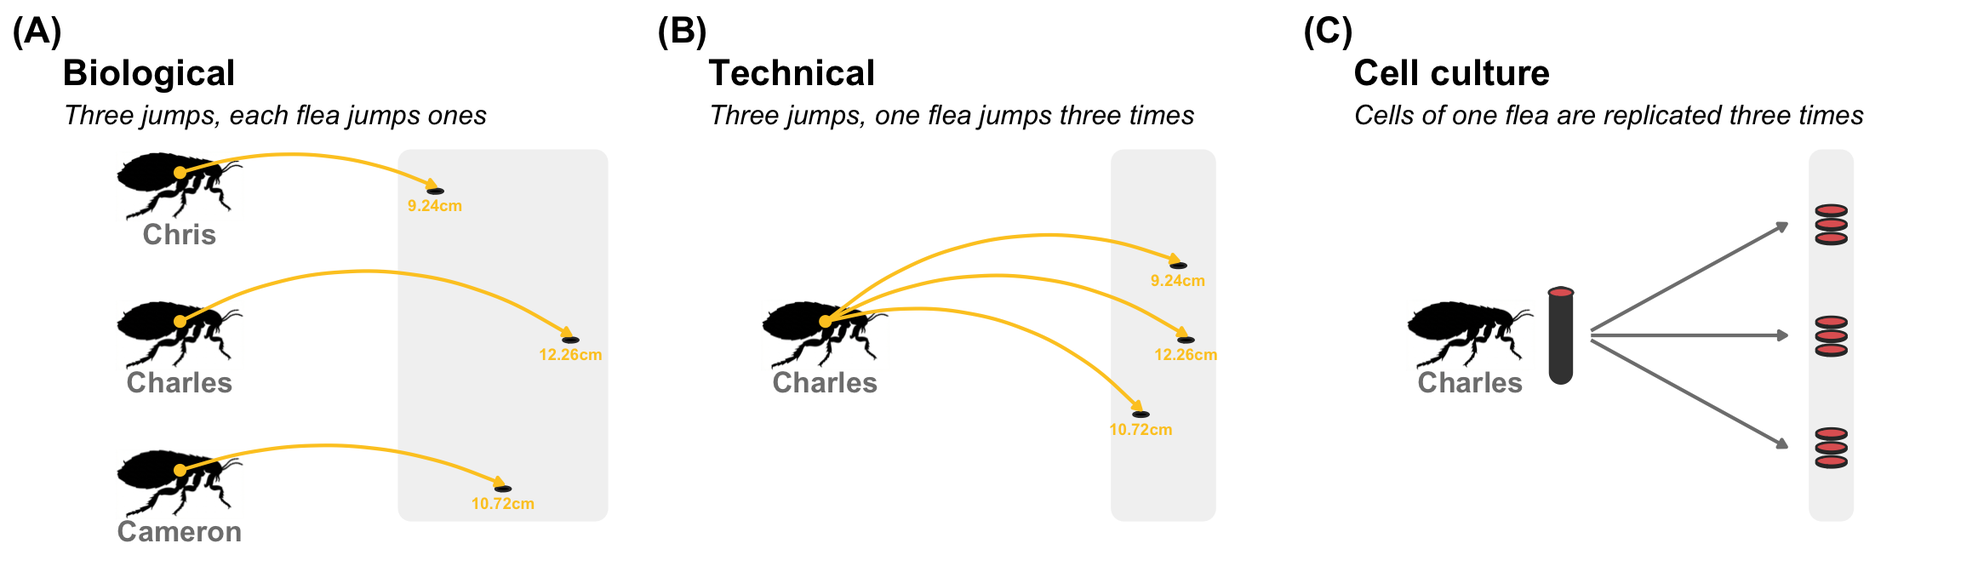
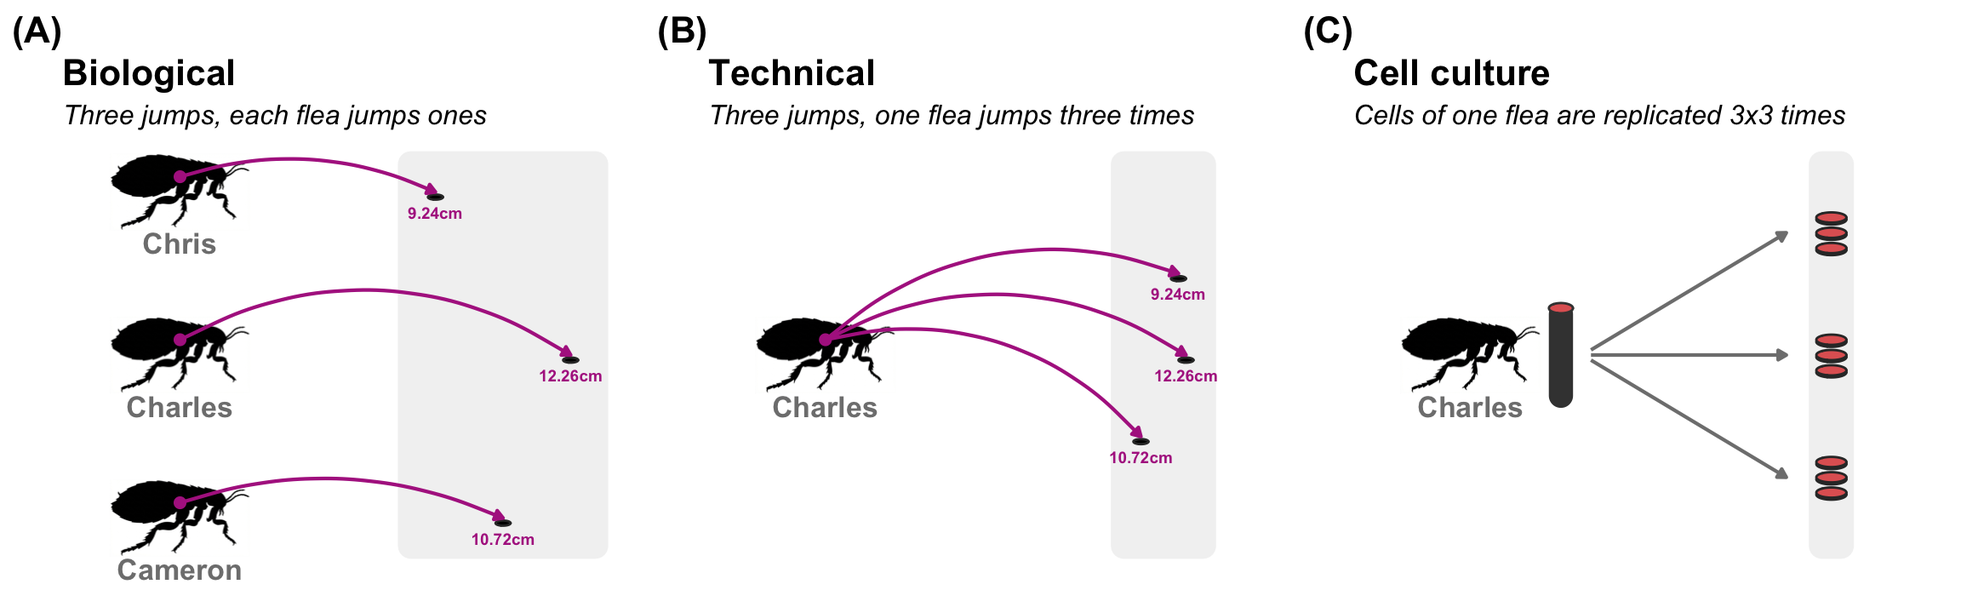
added

diff --git a/docs/chapter-11-covariate-data.html b/docs/chapter-11-covariate-data.html
@@ -432,7 +432,7 @@ window.Quarto = {
 </header>
 
 
-<p><em>Last modified on 01. January 2026 at 20:48:09</em></p>
+<p><em>Last modified on 01. January 2026 at 20:52:35</em></p>
 <blockquote class="blockquote">
 <p><em>“A quote.” — Dan Meyer</em></p>
 </blockquote>
@@ -1256,7 +1256,7 @@ Figure&nbsp;4.6: foo <strong>(A)</strong> foo <strong>(B)</strong> foo
 <span id="cb9-134"><a href="#cb9-134" aria-hidden="true" tabindex="-1"></a><span class="co">#| warning: false</span></span>
 <span id="cb9-135"><a href="#cb9-135" aria-hidden="true" tabindex="-1"></a><span class="co">#| label: fig-chap-11-cov-01-flea-bio-tech</span></span>
 <span id="cb9-136"><a href="#cb9-136" aria-hidden="true" tabindex="-1"></a><span class="co">#| fig-align: center</span></span>
-<span id="cb9-137"><a href="#cb9-137" aria-hidden="true" tabindex="-1"></a><span class="co">#| fig-height: 3.5</span></span>
+<span id="cb9-137"><a href="#cb9-137" aria-hidden="true" tabindex="-1"></a><span class="co">#| fig-height: 3.75</span></span>
 <span id="cb9-138"><a href="#cb9-138" aria-hidden="true" tabindex="-1"></a><span class="co">#| fig-width: 12</span></span>
 <span id="cb9-139"><a href="#cb9-139" aria-hidden="true" tabindex="-1"></a><span class="co">#| fig-cap: "foo **(A)** foo **(B)** foo **(C)** foo"</span></span>
 <span id="cb9-140"><a href="#cb9-140" aria-hidden="true" tabindex="-1"></a></span>
@@ -1269,7 +1269,7 @@ Figure&nbsp;4.6: foo <strong>(A)</strong> foo <strong>(B)</strong> foo
 <span id="cb9-147"><a href="#cb9-147" aria-hidden="true" tabindex="-1"></a>  <span class="fu">annotate</span>(<span class="st">"text"</span>, <span class="at">x =</span> <span class="fu">c</span>(<span class="sc">-</span><span class="dv">7</span>, <span class="sc">-</span><span class="dv">7</span>, <span class="sc">-</span><span class="dv">7</span>),</span>
 <span id="cb9-148"><a href="#cb9-148" aria-hidden="true" tabindex="-1"></a>           <span class="at">y =</span> <span class="fu">c</span>(<span class="dv">8</span>, <span class="dv">0</span>, <span class="sc">-</span><span class="dv">8</span>)<span class="sc">-</span><span class="fl">2.5</span>, <span class="at">fontface =</span> <span class="dv">2</span>, <span class="at">size =</span> <span class="fl">4.5</span>, <span class="at">color =</span> <span class="st">"gray50"</span>,</span>
 <span id="cb9-149"><a href="#cb9-149" aria-hidden="true" tabindex="-1"></a>           <span class="at">label =</span> <span class="fu">c</span>(<span class="st">"Chris"</span>, <span class="st">"Charles"</span>, <span class="st">"Cameron"</span>)) <span class="sc">+</span></span>
-<span id="cb9-150"><a href="#cb9-150" aria-hidden="true" tabindex="-1"></a>  <span class="fu">annotate</span>(<span class="st">"point"</span>, <span class="fu">c</span>(<span class="sc">-</span><span class="dv">7</span>, <span class="sc">-</span><span class="dv">7</span>, <span class="sc">-</span><span class="dv">7</span>), <span class="at">y =</span> <span class="fu">c</span>(<span class="dv">8</span>, <span class="dv">0</span>, <span class="sc">-</span><span class="dv">8</span>)<span class="sc">+</span><span class="fl">0.75</span>, <span class="at">color =</span> <span class="st">"#FDC926FF"</span>, <span class="at">size =</span> <span class="dv">2</span>) <span class="sc">+</span></span>
+<span id="cb9-150"><a href="#cb9-150" aria-hidden="true" tabindex="-1"></a>  <span class="fu">annotate</span>(<span class="st">"point"</span>, <span class="fu">c</span>(<span class="sc">-</span><span class="dv">7</span>, <span class="sc">-</span><span class="dv">7</span>, <span class="sc">-</span><span class="dv">7</span>), <span class="at">y =</span> <span class="fu">c</span>(<span class="dv">8</span>, <span class="dv">0</span>, <span class="sc">-</span><span class="dv">8</span>)<span class="sc">+</span><span class="fl">0.75</span>, <span class="at">color =</span> <span class="st">"#B12A90FF"</span>, <span class="at">size =</span> <span class="dv">2</span>) <span class="sc">+</span></span>
 <span id="cb9-151"><a href="#cb9-151" aria-hidden="true" tabindex="-1"></a>  <span class="fu">geom_shape</span>(<span class="at">data =</span> <span class="fu">tibble</span>(<span class="at">x =</span> <span class="fu">c</span>(<span class="fl">0.25</span>, <span class="fl">7.25</span>, <span class="fl">7.25</span>, <span class="fl">0.25</span>), </span>
 <span id="cb9-152"><a href="#cb9-152" aria-hidden="true" tabindex="-1"></a>                           <span class="at">y =</span> <span class="fu">c</span>(<span class="sc">-</span><span class="dv">10</span>, <span class="sc">-</span><span class="dv">10</span>, <span class="dv">10</span>, <span class="dv">10</span>)),</span>
 <span id="cb9-153"><a href="#cb9-153" aria-hidden="true" tabindex="-1"></a>             <span class="fu">aes</span>(x, y), <span class="at">radius =</span> <span class="fu">unit</span>(<span class="fl">0.2</span>, <span class="st">'cm'</span>), <span class="at">fill =</span> <span class="st">"gray95"</span>) <span class="sc">+</span></span>
@@ -1277,19 +1277,19 @@ Figure&nbsp;4.6: foo <strong>(A)</strong> foo <strong>(B)</strong> foo
 <span id="cb9-155"><a href="#cb9-155" aria-hidden="true" tabindex="-1"></a>               <span class="at">color =</span> <span class="st">"gray20"</span>, <span class="at">fill =</span> <span class="st">"black"</span>) <span class="sc">+</span></span>
 <span id="cb9-156"><a href="#cb9-156" aria-hidden="true" tabindex="-1"></a>  <span class="fu">geom_curve</span>(<span class="fu">aes</span>(<span class="at">x =</span> <span class="sc">-</span><span class="dv">7</span>, <span class="at">y =</span> <span class="fl">8.75</span>, <span class="at">xend =</span> <span class="fl">1.5</span>, <span class="at">yend =</span> <span class="dv">8</span>),</span>
 <span id="cb9-157"><a href="#cb9-157" aria-hidden="true" tabindex="-1"></a>             <span class="at">arrow =</span> <span class="fu">arrow</span>(<span class="at">length =</span> <span class="fu">unit</span>(<span class="fl">0.02</span>, <span class="st">"npc"</span>), <span class="at">type =</span> <span class="st">"closed"</span>),</span>
-<span id="cb9-158"><a href="#cb9-158" aria-hidden="true" tabindex="-1"></a>             <span class="at">curvature =</span> <span class="sc">-</span><span class="fl">0.2</span>, <span class="at">color =</span> <span class="st">"#FDC926FF"</span>, <span class="at">linewidth =</span> <span class="fl">0.75</span>, <span class="at">linetype =</span> <span class="dv">1</span>) <span class="sc">+</span></span>
+<span id="cb9-158"><a href="#cb9-158" aria-hidden="true" tabindex="-1"></a>             <span class="at">curvature =</span> <span class="sc">-</span><span class="fl">0.2</span>, <span class="at">color =</span> <span class="st">"#B12A90FF"</span>, <span class="at">linewidth =</span> <span class="fl">0.75</span>, <span class="at">linetype =</span> <span class="dv">1</span>) <span class="sc">+</span></span>
 <span id="cb9-159"><a href="#cb9-159" aria-hidden="true" tabindex="-1"></a>  <span class="fu">geom_ellipse</span>(<span class="fu">aes</span>(<span class="at">x0 =</span> <span class="dv">6</span>, <span class="at">y0 =</span> <span class="sc">-</span><span class="fl">0.25</span>, <span class="at">a =</span> <span class="fl">0.25</span>, <span class="at">b =</span> <span class="fl">0.125</span>, <span class="at">angle =</span> <span class="dv">0</span>), </span>
 <span id="cb9-160"><a href="#cb9-160" aria-hidden="true" tabindex="-1"></a>               <span class="at">color =</span> <span class="st">"gray20"</span>, <span class="at">fill =</span> <span class="st">"black"</span>) <span class="sc">+</span></span>
 <span id="cb9-161"><a href="#cb9-161" aria-hidden="true" tabindex="-1"></a>  <span class="fu">geom_curve</span>(<span class="fu">aes</span>(<span class="at">x =</span> <span class="sc">-</span><span class="dv">7</span>, <span class="at">y =</span> <span class="fl">0.75</span>, <span class="at">xend =</span> <span class="dv">6</span>, <span class="at">yend =</span> <span class="dv">0</span>),</span>
 <span id="cb9-162"><a href="#cb9-162" aria-hidden="true" tabindex="-1"></a>             <span class="at">arrow =</span> <span class="fu">arrow</span>(<span class="at">length =</span> <span class="fu">unit</span>(<span class="fl">0.02</span>, <span class="st">"npc"</span>), <span class="at">type =</span> <span class="st">"closed"</span>),</span>
-<span id="cb9-163"><a href="#cb9-163" aria-hidden="true" tabindex="-1"></a>             <span class="at">curvature =</span> <span class="sc">-</span><span class="fl">0.3</span>, <span class="at">color =</span> <span class="st">"#FDC926FF"</span>, <span class="at">linewidth =</span> <span class="fl">0.75</span>, <span class="at">linetype =</span> <span class="dv">1</span>) <span class="sc">+</span></span>
+<span id="cb9-163"><a href="#cb9-163" aria-hidden="true" tabindex="-1"></a>             <span class="at">curvature =</span> <span class="sc">-</span><span class="fl">0.3</span>, <span class="at">color =</span> <span class="st">"#B12A90FF"</span>, <span class="at">linewidth =</span> <span class="fl">0.75</span>, <span class="at">linetype =</span> <span class="dv">1</span>) <span class="sc">+</span></span>
 <span id="cb9-164"><a href="#cb9-164" aria-hidden="true" tabindex="-1"></a>  <span class="fu">geom_ellipse</span>(<span class="fu">aes</span>(<span class="at">x0 =</span> <span class="fl">3.75</span>, <span class="at">y0 =</span> <span class="sc">-</span><span class="fl">8.25</span>, <span class="at">a =</span> <span class="fl">0.25</span>, <span class="at">b =</span> <span class="fl">0.125</span>, <span class="at">angle =</span> <span class="dv">0</span>), </span>
 <span id="cb9-165"><a href="#cb9-165" aria-hidden="true" tabindex="-1"></a>               <span class="at">color =</span> <span class="st">"gray20"</span>, <span class="at">fill =</span> <span class="st">"black"</span>) <span class="sc">+</span></span>
 <span id="cb9-166"><a href="#cb9-166" aria-hidden="true" tabindex="-1"></a>  <span class="fu">geom_curve</span>(<span class="fu">aes</span>(<span class="at">x =</span> <span class="sc">-</span><span class="dv">7</span>, <span class="at">y =</span> <span class="sc">-</span><span class="fl">7.25</span>, <span class="at">xend =</span> <span class="fl">3.75</span>, <span class="at">yend =</span> <span class="sc">-</span><span class="dv">8</span>),</span>
 <span id="cb9-167"><a href="#cb9-167" aria-hidden="true" tabindex="-1"></a>             <span class="at">arrow =</span> <span class="fu">arrow</span>(<span class="at">length =</span> <span class="fu">unit</span>(<span class="fl">0.02</span>, <span class="st">"npc"</span>), <span class="at">type =</span> <span class="st">"closed"</span>),</span>
-<span id="cb9-168"><a href="#cb9-168" aria-hidden="true" tabindex="-1"></a>             <span class="at">curvature =</span> <span class="sc">-</span><span class="fl">0.2</span>, <span class="at">color =</span> <span class="st">"#FDC926FF"</span>, <span class="at">linewidth =</span> <span class="fl">0.75</span>, <span class="at">linetype =</span> <span class="dv">1</span>) <span class="sc">+</span>  </span>
+<span id="cb9-168"><a href="#cb9-168" aria-hidden="true" tabindex="-1"></a>             <span class="at">curvature =</span> <span class="sc">-</span><span class="fl">0.2</span>, <span class="at">color =</span> <span class="st">"#B12A90FF"</span>, <span class="at">linewidth =</span> <span class="fl">0.75</span>, <span class="at">linetype =</span> <span class="dv">1</span>) <span class="sc">+</span>  </span>
 <span id="cb9-169"><a href="#cb9-169" aria-hidden="true" tabindex="-1"></a>  <span class="fu">annotate</span>(<span class="st">"text"</span>, <span class="at">x =</span> <span class="fu">c</span>(<span class="fl">1.5</span>, <span class="dv">6</span>, <span class="fl">3.75</span>), <span class="at">y =</span> <span class="fu">c</span>(<span class="dv">8</span>, <span class="dv">0</span>, <span class="sc">-</span><span class="dv">8</span>)<span class="sc">-</span><span class="dv">1</span>, <span class="at">label =</span> <span class="fu">c</span>(<span class="st">"9.24cm"</span>, <span class="st">"12.26cm"</span>, <span class="st">"10.72cm"</span>),</span>
-<span id="cb9-170"><a href="#cb9-170" aria-hidden="true" tabindex="-1"></a>           <span class="at">color =</span> <span class="st">"#FDC926FF"</span>, <span class="at">size =</span> <span class="fl">2.5</span>, <span class="at">fontface =</span> <span class="dv">2</span>) <span class="sc">+</span></span>
+<span id="cb9-170"><a href="#cb9-170" aria-hidden="true" tabindex="-1"></a>           <span class="at">color =</span> <span class="st">"#B12A90FF"</span>, <span class="at">size =</span> <span class="fl">2.5</span>, <span class="at">fontface =</span> <span class="dv">2</span>) <span class="sc">+</span></span>
 <span id="cb9-171"><a href="#cb9-171" aria-hidden="true" tabindex="-1"></a>  <span class="fu">labs</span>(<span class="at">title =</span> <span class="st">"Biological"</span>,</span>
 <span id="cb9-172"><a href="#cb9-172" aria-hidden="true" tabindex="-1"></a>       <span class="at">subtitle =</span> <span class="st">"Three jumps, each flea jumps ones"</span>) <span class="sc">+</span></span>
 <span id="cb9-173"><a href="#cb9-173" aria-hidden="true" tabindex="-1"></a>  <span class="fu">theme</span>(<span class="at">plot.title =</span> <span class="fu">element_text</span>(<span class="at">size =</span> <span class="dv">16</span>, <span class="at">face =</span> <span class="st">"bold"</span>),</span>
@@ -1303,7 +1303,7 @@ Figure&nbsp;4.6: foo <strong>(A)</strong> foo <strong>(B)</strong> foo
 <span id="cb9-181"><a href="#cb9-181" aria-hidden="true" tabindex="-1"></a>                 <span class="at">image =</span> <span class="fu">rep</span>(<span class="st">"images/flea_00_flip.png"</span>, <span class="dv">3</span>)), <span class="at">size =</span> <span class="fl">0.3</span>) <span class="sc">+</span></span>
 <span id="cb9-182"><a href="#cb9-182" aria-hidden="true" tabindex="-1"></a>  <span class="fu">annotate</span>(<span class="st">"text"</span>, <span class="at">x =</span> <span class="sc">-</span><span class="dv">7</span>, <span class="at">y =</span> <span class="sc">-</span><span class="fl">2.5</span>, <span class="at">fontface =</span> <span class="dv">2</span>, <span class="at">size =</span> <span class="fl">4.5</span>, <span class="at">color =</span> <span class="st">"gray50"</span>,</span>
 <span id="cb9-183"><a href="#cb9-183" aria-hidden="true" tabindex="-1"></a>           <span class="at">label =</span> <span class="st">"Charles"</span>) <span class="sc">+</span></span>
-<span id="cb9-184"><a href="#cb9-184" aria-hidden="true" tabindex="-1"></a>  <span class="fu">annotate</span>(<span class="st">"point"</span>, <span class="sc">-</span><span class="dv">7</span>, <span class="at">y =</span> <span class="fl">0.75</span>, <span class="at">color =</span> <span class="st">"#FDC926FF"</span>, <span class="at">size =</span> <span class="dv">2</span>) <span class="sc">+</span></span>
+<span id="cb9-184"><a href="#cb9-184" aria-hidden="true" tabindex="-1"></a>  <span class="fu">annotate</span>(<span class="st">"point"</span>, <span class="sc">-</span><span class="dv">7</span>, <span class="at">y =</span> <span class="fl">0.75</span>, <span class="at">color =</span> <span class="st">"#B12A90FF"</span>, <span class="at">size =</span> <span class="dv">2</span>) <span class="sc">+</span></span>
 <span id="cb9-185"><a href="#cb9-185" aria-hidden="true" tabindex="-1"></a>  <span class="fu">geom_shape</span>(<span class="at">data =</span> <span class="fu">tibble</span>(<span class="at">x =</span> <span class="fu">c</span>(<span class="fl">2.5</span>, <span class="dv">6</span>, <span class="dv">6</span>, <span class="fl">2.5</span>), </span>
 <span id="cb9-186"><a href="#cb9-186" aria-hidden="true" tabindex="-1"></a>                           <span class="at">y =</span> <span class="fu">c</span>(<span class="sc">-</span><span class="dv">10</span>, <span class="sc">-</span><span class="dv">10</span>, <span class="dv">10</span>, <span class="dv">10</span>)),</span>
 <span id="cb9-187"><a href="#cb9-187" aria-hidden="true" tabindex="-1"></a>             <span class="fu">aes</span>(x, y), <span class="at">radius =</span> <span class="fu">unit</span>(<span class="fl">0.2</span>, <span class="st">'cm'</span>), <span class="at">fill =</span> <span class="st">"gray95"</span>) <span class="sc">+</span></span>
@@ -1311,19 +1311,19 @@ Figure&nbsp;4.6: foo <strong>(A)</strong> foo <strong>(B)</strong> foo
 <span id="cb9-189"><a href="#cb9-189" aria-hidden="true" tabindex="-1"></a>               <span class="at">color =</span> <span class="st">"gray20"</span>, <span class="at">fill =</span> <span class="st">"black"</span>) <span class="sc">+</span></span>
 <span id="cb9-190"><a href="#cb9-190" aria-hidden="true" tabindex="-1"></a>  <span class="fu">geom_curve</span>(<span class="fu">aes</span>(<span class="at">x =</span> <span class="sc">-</span><span class="dv">7</span>, <span class="at">y =</span> <span class="fl">0.75</span>, <span class="at">xend =</span> <span class="fl">4.75</span>, <span class="at">yend =</span> <span class="dv">4</span>),</span>
 <span id="cb9-191"><a href="#cb9-191" aria-hidden="true" tabindex="-1"></a>             <span class="at">arrow =</span> <span class="fu">arrow</span>(<span class="at">length =</span> <span class="fu">unit</span>(<span class="fl">0.02</span>, <span class="st">"npc"</span>), <span class="at">type =</span> <span class="st">"closed"</span>),</span>
-<span id="cb9-192"><a href="#cb9-192" aria-hidden="true" tabindex="-1"></a>             <span class="at">curvature =</span> <span class="sc">-</span><span class="fl">0.3</span>, <span class="at">color =</span> <span class="st">"#FDC926FF"</span>, <span class="at">linewidth =</span> <span class="fl">0.75</span>, <span class="at">linetype =</span> <span class="dv">1</span>) <span class="sc">+</span></span>
+<span id="cb9-192"><a href="#cb9-192" aria-hidden="true" tabindex="-1"></a>             <span class="at">curvature =</span> <span class="sc">-</span><span class="fl">0.3</span>, <span class="at">color =</span> <span class="st">"#B12A90FF"</span>, <span class="at">linewidth =</span> <span class="fl">0.75</span>, <span class="at">linetype =</span> <span class="dv">1</span>) <span class="sc">+</span></span>
 <span id="cb9-193"><a href="#cb9-193" aria-hidden="true" tabindex="-1"></a>  <span class="fu">geom_ellipse</span>(<span class="fu">aes</span>(<span class="at">x0 =</span> <span class="dv">5</span>, <span class="at">y0 =</span> <span class="sc">-</span><span class="fl">0.25</span>, <span class="at">a =</span> <span class="fl">0.25</span>, <span class="at">b =</span> <span class="fl">0.125</span>, <span class="at">angle =</span> <span class="dv">0</span>), </span>
 <span id="cb9-194"><a href="#cb9-194" aria-hidden="true" tabindex="-1"></a>               <span class="at">color =</span> <span class="st">"gray20"</span>, <span class="at">fill =</span> <span class="st">"black"</span>) <span class="sc">+</span></span>
 <span id="cb9-195"><a href="#cb9-195" aria-hidden="true" tabindex="-1"></a>  <span class="fu">geom_curve</span>(<span class="fu">aes</span>(<span class="at">x =</span> <span class="sc">-</span><span class="dv">7</span>, <span class="at">y =</span> <span class="fl">0.75</span>, <span class="at">xend =</span> <span class="dv">5</span>, <span class="at">yend =</span> <span class="dv">0</span>),</span>
 <span id="cb9-196"><a href="#cb9-196" aria-hidden="true" tabindex="-1"></a>             <span class="at">arrow =</span> <span class="fu">arrow</span>(<span class="at">length =</span> <span class="fu">unit</span>(<span class="fl">0.02</span>, <span class="st">"npc"</span>), <span class="at">type =</span> <span class="st">"closed"</span>),</span>
-<span id="cb9-197"><a href="#cb9-197" aria-hidden="true" tabindex="-1"></a>             <span class="at">curvature =</span> <span class="sc">-</span><span class="fl">0.3</span>, <span class="at">color =</span> <span class="st">"#FDC926FF"</span>, <span class="at">linewidth =</span> <span class="fl">0.75</span>, <span class="at">linetype =</span> <span class="dv">1</span>) <span class="sc">+</span></span>
+<span id="cb9-197"><a href="#cb9-197" aria-hidden="true" tabindex="-1"></a>             <span class="at">curvature =</span> <span class="sc">-</span><span class="fl">0.3</span>, <span class="at">color =</span> <span class="st">"#B12A90FF"</span>, <span class="at">linewidth =</span> <span class="fl">0.75</span>, <span class="at">linetype =</span> <span class="dv">1</span>) <span class="sc">+</span></span>
 <span id="cb9-198"><a href="#cb9-198" aria-hidden="true" tabindex="-1"></a>  <span class="fu">geom_ellipse</span>(<span class="fu">aes</span>(<span class="at">x0 =</span> <span class="fl">3.5</span>, <span class="at">y0 =</span> <span class="sc">-</span><span class="fl">8.25</span><span class="sc">+</span><span class="dv">4</span>, <span class="at">a =</span> <span class="fl">0.25</span>, <span class="at">b =</span> <span class="fl">0.125</span>, <span class="at">angle =</span> <span class="dv">0</span>), </span>
 <span id="cb9-199"><a href="#cb9-199" aria-hidden="true" tabindex="-1"></a>               <span class="at">color =</span> <span class="st">"gray20"</span>, <span class="at">fill =</span> <span class="st">"black"</span>) <span class="sc">+</span></span>
 <span id="cb9-200"><a href="#cb9-200" aria-hidden="true" tabindex="-1"></a>  <span class="fu">geom_curve</span>(<span class="fu">aes</span>(<span class="at">x =</span> <span class="sc">-</span><span class="dv">7</span>, <span class="at">y =</span> <span class="fl">0.75</span>, <span class="at">xend =</span> <span class="fl">3.5</span>, <span class="at">yend =</span> <span class="sc">-</span><span class="dv">4</span>),</span>
 <span id="cb9-201"><a href="#cb9-201" aria-hidden="true" tabindex="-1"></a>             <span class="at">arrow =</span> <span class="fu">arrow</span>(<span class="at">length =</span> <span class="fu">unit</span>(<span class="fl">0.02</span>, <span class="st">"npc"</span>), <span class="at">type =</span> <span class="st">"closed"</span>),</span>
-<span id="cb9-202"><a href="#cb9-202" aria-hidden="true" tabindex="-1"></a>             <span class="at">curvature =</span> <span class="sc">-</span><span class="fl">0.3</span>, <span class="at">color =</span> <span class="st">"#FDC926FF"</span>, <span class="at">linewidth =</span> <span class="fl">0.75</span>, <span class="at">linetype =</span> <span class="dv">1</span>) <span class="sc">+</span> </span>
+<span id="cb9-202"><a href="#cb9-202" aria-hidden="true" tabindex="-1"></a>             <span class="at">curvature =</span> <span class="sc">-</span><span class="fl">0.3</span>, <span class="at">color =</span> <span class="st">"#B12A90FF"</span>, <span class="at">linewidth =</span> <span class="fl">0.75</span>, <span class="at">linetype =</span> <span class="dv">1</span>) <span class="sc">+</span> </span>
 <span id="cb9-203"><a href="#cb9-203" aria-hidden="true" tabindex="-1"></a>  <span class="fu">annotate</span>(<span class="st">"text"</span>, <span class="at">x =</span> <span class="fu">c</span>(<span class="fl">4.75</span>, <span class="dv">5</span>, <span class="fl">3.5</span>), <span class="at">y =</span> <span class="fu">c</span>(<span class="dv">4</span>, <span class="dv">0</span>, <span class="sc">-</span><span class="dv">4</span>)<span class="sc">-</span><span class="dv">1</span>, <span class="at">label =</span> <span class="fu">c</span>(<span class="st">"9.24cm"</span>, <span class="st">"12.26cm"</span>, <span class="st">"10.72cm"</span>),</span>
-<span id="cb9-204"><a href="#cb9-204" aria-hidden="true" tabindex="-1"></a>           <span class="at">color =</span> <span class="st">"#FDC926FF"</span>, <span class="at">size =</span> <span class="fl">2.5</span>, <span class="at">fontface =</span> <span class="dv">2</span>) <span class="sc">+</span></span>
+<span id="cb9-204"><a href="#cb9-204" aria-hidden="true" tabindex="-1"></a>           <span class="at">color =</span> <span class="st">"#B12A90FF"</span>, <span class="at">size =</span> <span class="fl">2.5</span>, <span class="at">fontface =</span> <span class="dv">2</span>) <span class="sc">+</span></span>
 <span id="cb9-205"><a href="#cb9-205" aria-hidden="true" tabindex="-1"></a>  <span class="fu">labs</span>(<span class="at">title =</span> <span class="st">"Technical"</span>,</span>
 <span id="cb9-206"><a href="#cb9-206" aria-hidden="true" tabindex="-1"></a>       <span class="at">subtitle =</span> <span class="st">"Three jumps, one flea jumps three times"</span>) <span class="sc">+</span></span>
 <span id="cb9-207"><a href="#cb9-207" aria-hidden="true" tabindex="-1"></a>  <span class="fu">theme</span>(<span class="at">plot.title =</span> <span class="fu">element_text</span>(<span class="at">size =</span> <span class="dv">16</span>, <span class="at">face =</span> <span class="st">"bold"</span>),</span>
@@ -1388,7 +1388,7 @@ Figure&nbsp;4.6: foo <strong>(A)</strong> foo <strong>(B)</strong> foo
 <span id="cb9-266"><a href="#cb9-266" aria-hidden="true" tabindex="-1"></a>  <span class="fu">geom_ellipse</span>(<span class="fu">aes</span>(<span class="at">x0 =</span> <span class="dv">5</span>, <span class="at">y0 =</span> <span class="sc">-</span><span class="fl">6.75</span>, <span class="at">a =</span> <span class="fl">0.5</span>, <span class="at">b =</span> <span class="fl">0.25</span>, <span class="at">angle =</span> <span class="dv">0</span>), </span>
 <span id="cb9-267"><a href="#cb9-267" aria-hidden="true" tabindex="-1"></a>               <span class="at">color =</span> <span class="st">"gray20"</span>, <span class="at">fill =</span> <span class="st">"#E16462FF"</span>) <span class="sc">+</span>  </span>
 <span id="cb9-268"><a href="#cb9-268" aria-hidden="true" tabindex="-1"></a>  <span class="fu">labs</span>(<span class="at">title =</span> <span class="st">"Cell culture"</span>,</span>
-<span id="cb9-269"><a href="#cb9-269" aria-hidden="true" tabindex="-1"></a>       <span class="at">subtitle =</span> <span class="st">"Cells of one flea are replicated three times"</span>) <span class="sc">+</span></span>
+<span id="cb9-269"><a href="#cb9-269" aria-hidden="true" tabindex="-1"></a>       <span class="at">subtitle =</span> <span class="st">"Cells of one flea are replicated 3x3 times"</span>) <span class="sc">+</span></span>
 <span id="cb9-270"><a href="#cb9-270" aria-hidden="true" tabindex="-1"></a>  <span class="fu">theme</span>(<span class="at">plot.title =</span> <span class="fu">element_text</span>(<span class="at">size =</span> <span class="dv">16</span>, <span class="at">face =</span> <span class="st">"bold"</span>),</span>
 <span id="cb9-271"><a href="#cb9-271" aria-hidden="true" tabindex="-1"></a>        <span class="at">plot.subtitle =</span> <span class="fu">element_text</span>(<span class="at">size =</span> <span class="dv">12</span>, <span class="at">face =</span> <span class="st">"italic"</span>))</span>
 <span id="cb9-272"><a href="#cb9-272" aria-hidden="true" tabindex="-1"></a></span>
